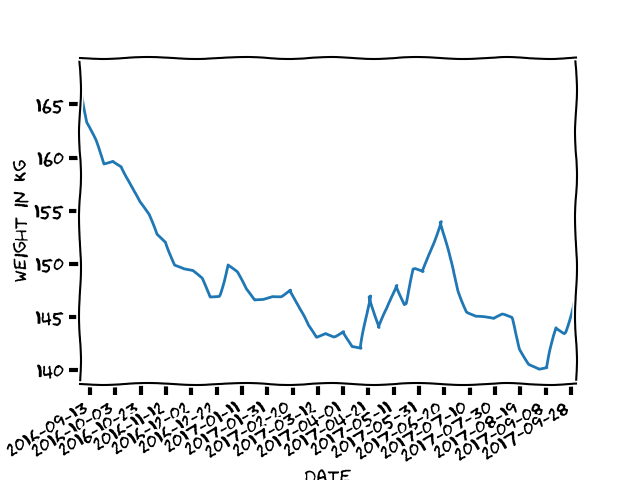
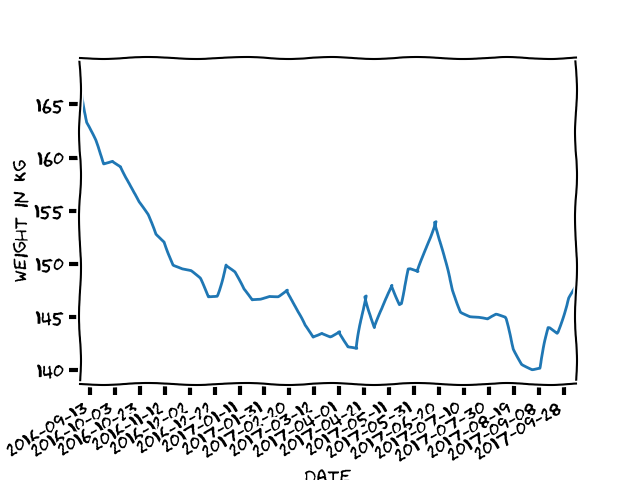
Week 41 update

diff --git a/index.html b/index.html
@@ -30,6 +30,14 @@
   </thead>
   <tbody>
     <tr>
+      <th>2017-10-08</th>
+      <td>147.8</td>
+      <td>1.0</td>
+      <td>-20.2</td>
+      <td>44.1</td>
+      <td>1.8</td>
+    </tr>
+    <tr>
       <th>2017-10-02</th>
       <td>146.8</td>
       <td>3.3</td>
